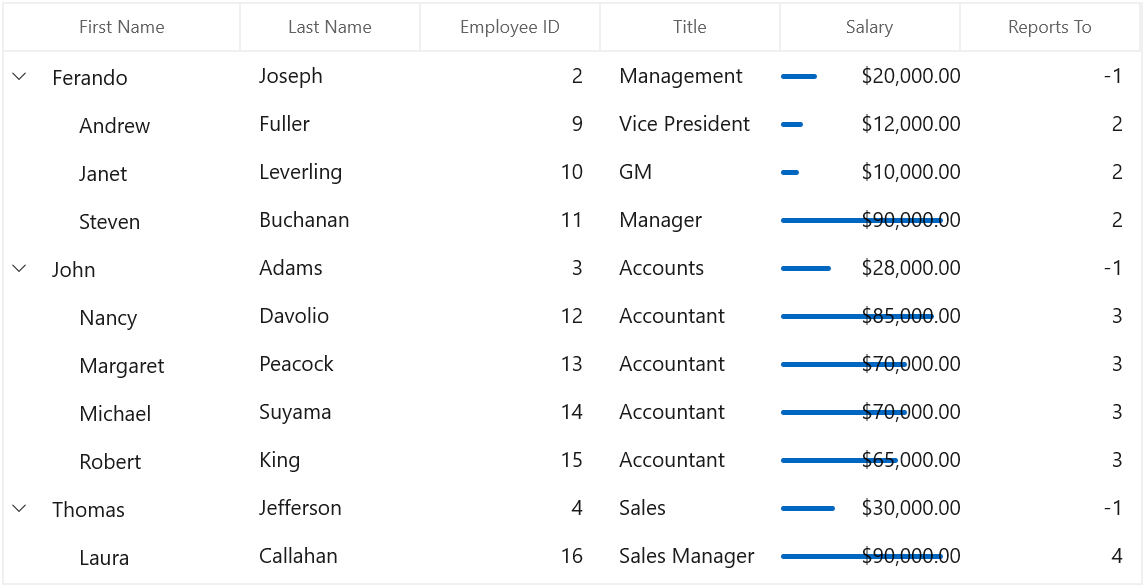
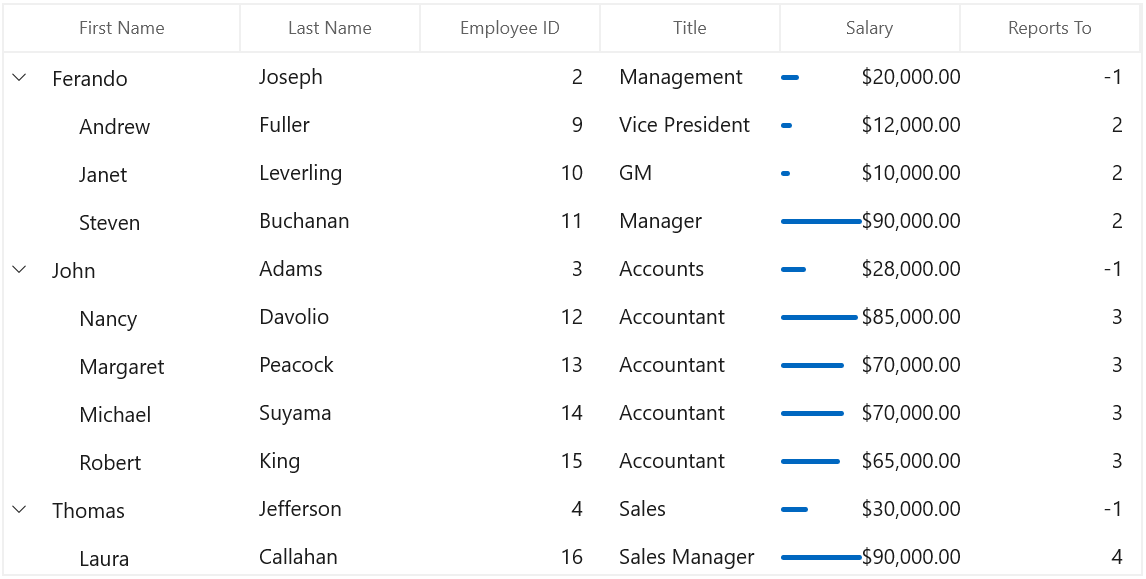
Updated the values in progress bar.

diff --git a/winui/TreeGrid/ColumnTypes.md b/winui/TreeGrid/ColumnTypes.md
@@ -185,7 +185,7 @@ In the below code snippet, `TreeGridTextColumn` is loaded with `ProgressBar` and
                 Height="50"
                 Background="Transparent"
                 BorderThickness="0"
-                Maximum="5000000"
+                Maximum="200000"
                 Minimum="0"
                 Visibility="Visible"
                 Value="{Binding Path=Salary}" />
